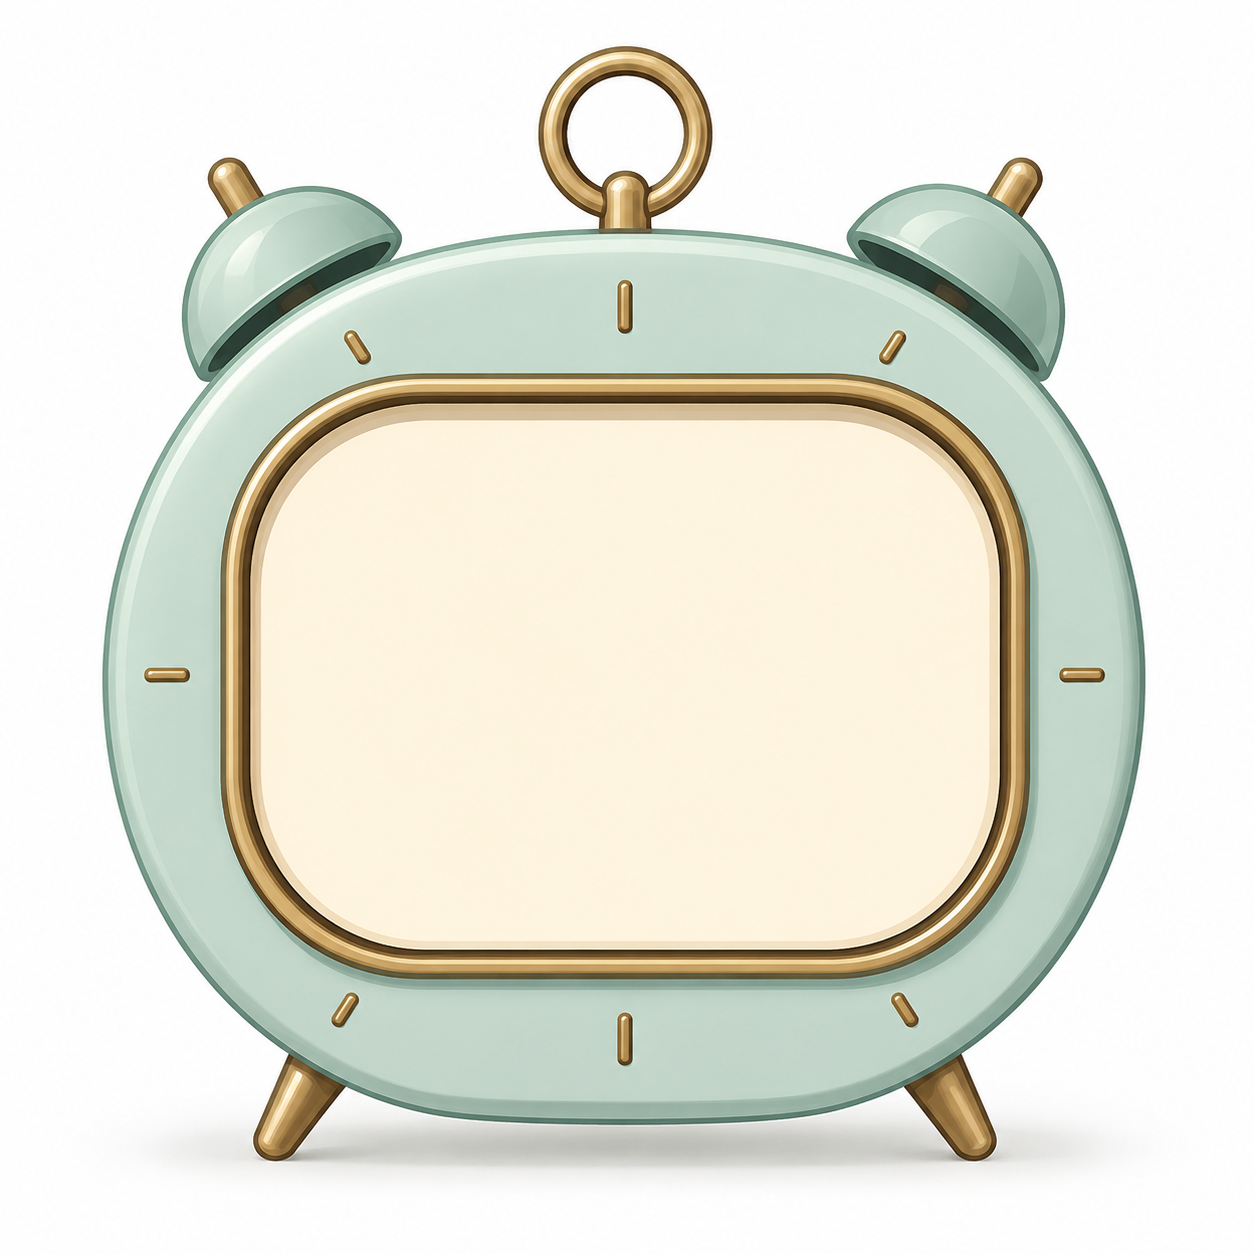
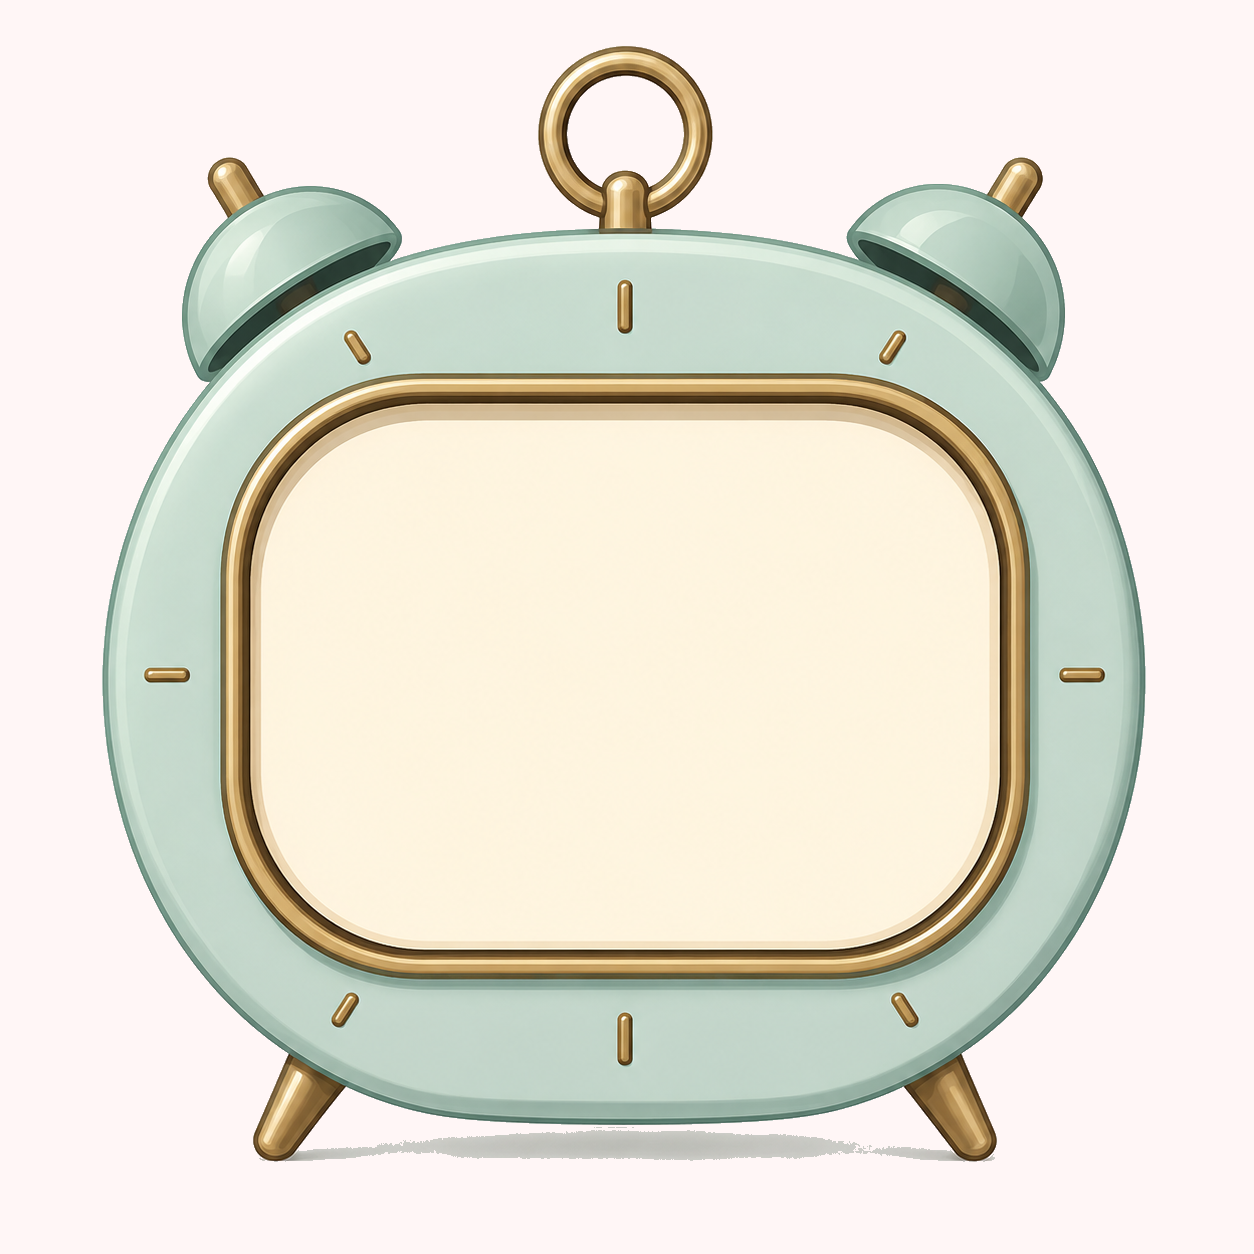
Add custom color theme

Changed region(s): [[0.2177, 0.8708, 0.8397, 0.933]]

diff --git a/main.py b/main.py
@@ -1,13 +1,12 @@
 from tkinter import *
-
-FONT = ('Century Schoolbook', 100, 'bold')
+from constants import *
 
 window = Tk()
 window.title('Countdown')
-window.config(padx=10 , pady=10)
+window.config(padx=10 , pady=10, bg=SNOW_WHITE)
 
 
-canvas = Canvas(width=600, height=600)
+canvas = Canvas(width=600, height=600, bg=SNOW_WHITE, highlightthickness= 0)
 clock_img = PhotoImage(file='clock.png')
 clock_img = clock_img.subsample(2,2)
 canvas.create_image(300, 300, image=clock_img)

diff --git a/constants.py b/constants.py
@@ -1,0 +1,6 @@
+FONT = ('Century Schoolbook', 100, 'bold')
+
+CRIMSON_RED = '#DB1A1A'
+SNOW_WHITE = '#FFF6F6'
+PASTEL_TURQUOISE = '#8CC7C4'
+DEEP_TEAL_BLUE = '#2C687B'